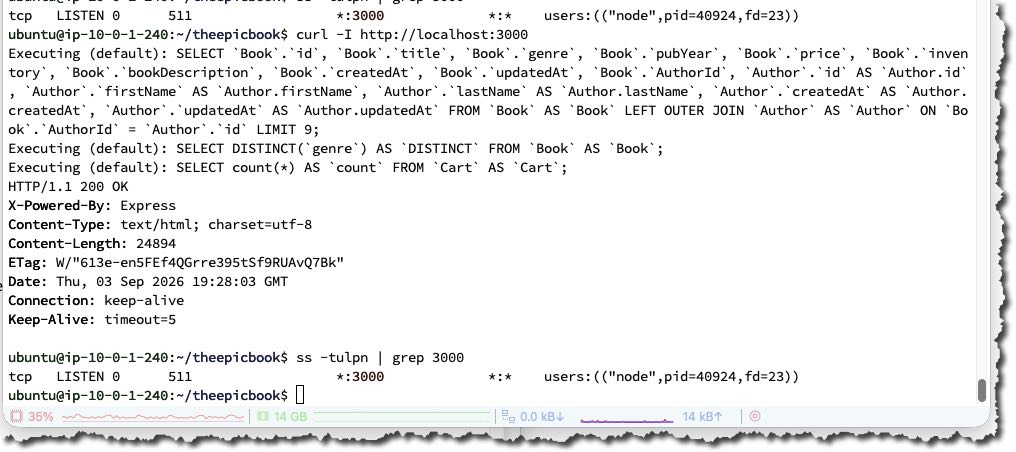
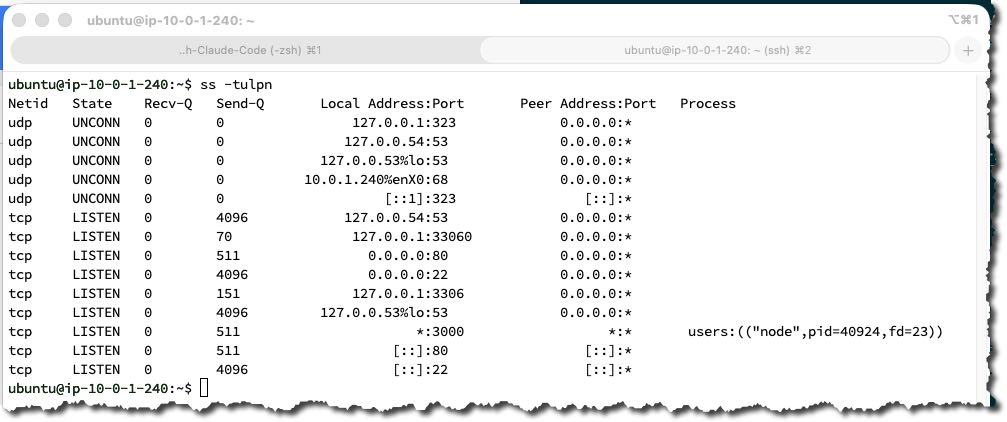
feat(assignment-04): add screenshot for backend response verification and update existing screenshot

Changed region(s): [[0.0, 0.0, 1.0, 1.0], [0.5541, 0.4621, 0.6157, 0.6161], [0.5541, 0.6469, 0.6157, 0.7701]]

diff --git a/week-06-aws-cloud/assignment-04-deploy-epicbook-on-ubuntu-vm-and-mysql-rds.md b/week-06-aws-cloud/assignment-04-deploy-epicbook-on-ubuntu-vm-and-mysql-rds.md
@@ -158,7 +158,7 @@ Clone the EpicBook repository, install backend dependencies, configure `.env` wi
 
 #### Screenshot 16 — `curl` output proving the backend responds; a 200, 301, or 404 response is acceptable if the service responds
 
-Add your screenshot here.
+![Screenshot 16](./screenshots/week-06-aws-cloud-04-16.jpg)
 
 ---
 
